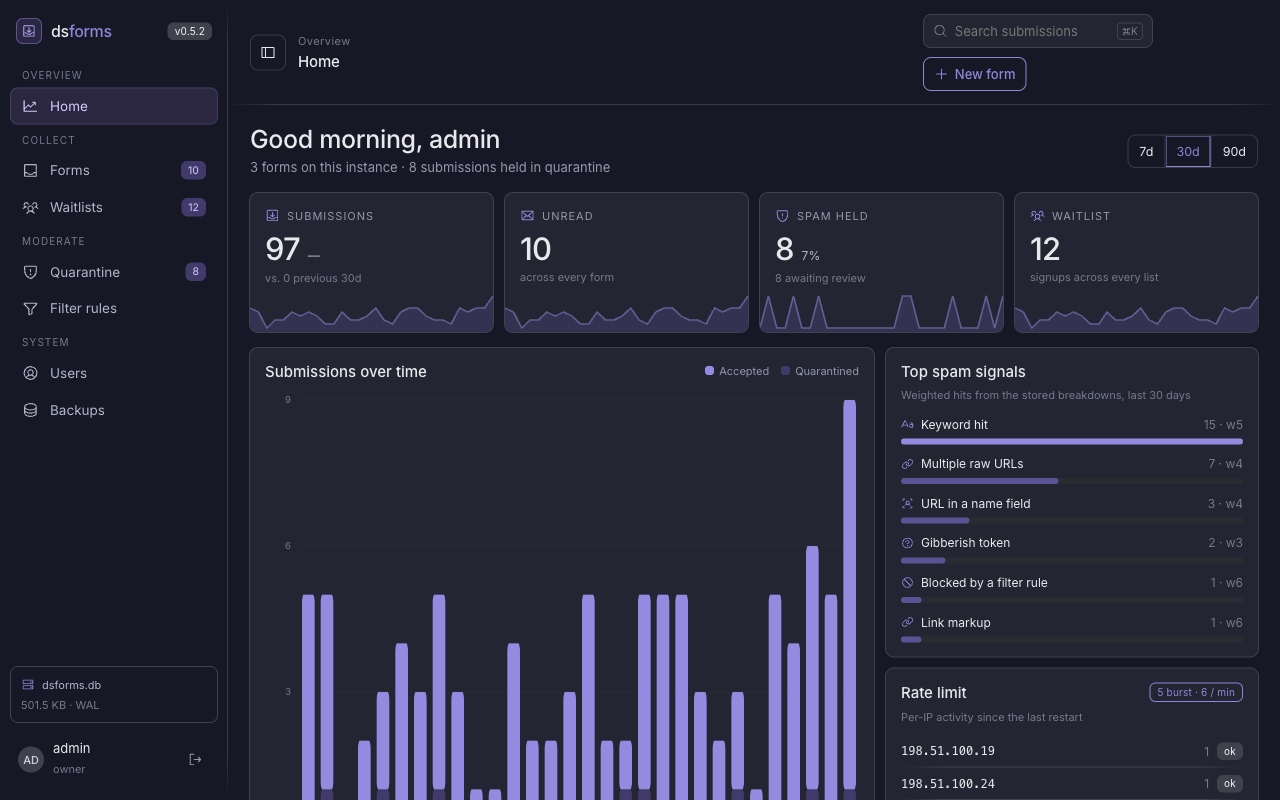
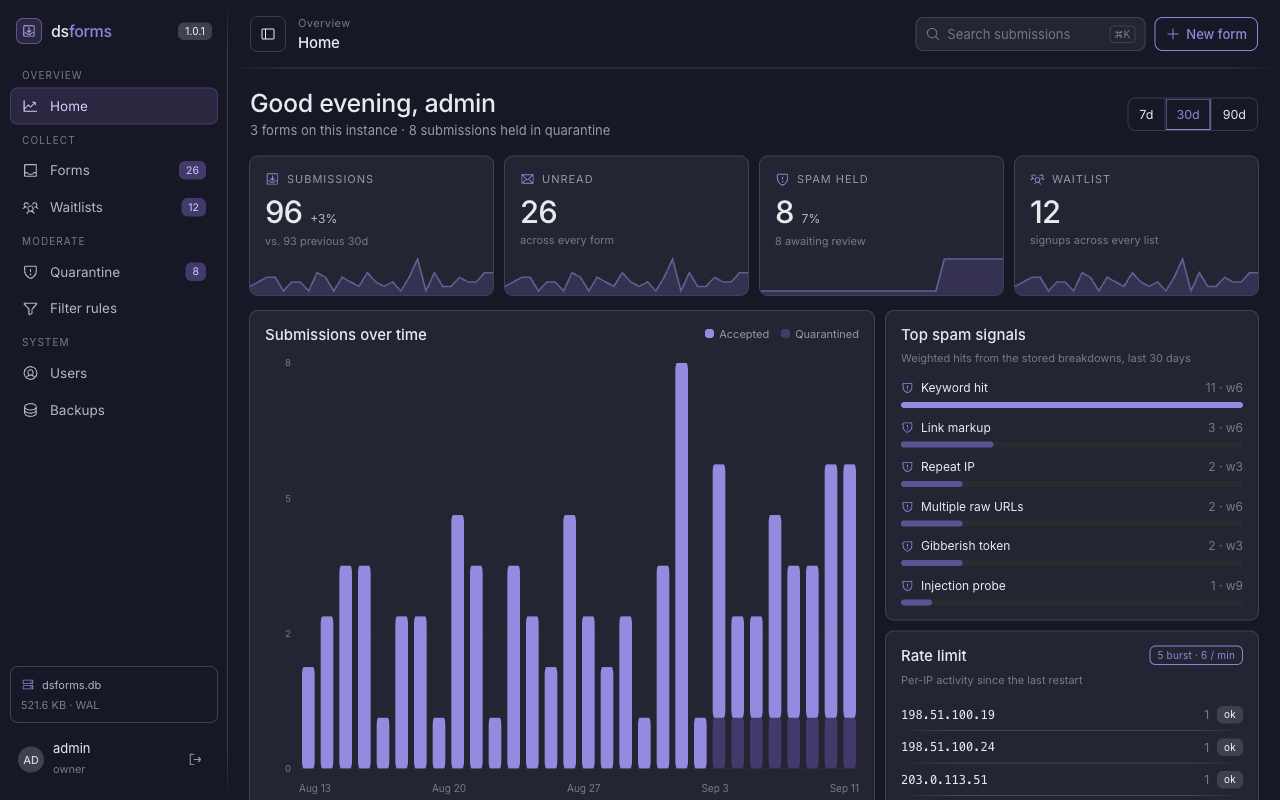
docs: back to the landing design that was handed over
The page had drifted to seven screenshots. The design in
reference/design_handoff_dsforms_admin has none — every UI illustration
in it is hand-built markup. Three of those PNGs were figures scattered
through the copy, one had replaced a mock outright, and four more sat in
a gallery below the Admin section.

Now: one screenshot, the overview, in the first section. The spam
section gets its panel mock back — the same design, translated to this
page's tokens and icon sprite rather than the export's literal hex and
sc-for placeholders. Everything else is markup again. The five PNGs
nothing references any more are deleted, 536KB of them.

Also removes the "Deploy it now" button beside "Star on GitHub".

The two surviving screenshots are recaptured against 1.0.1, because both
still showed the header bug that release fixed — the overview shot was
about to advertise it from the top of the page. Demo data is neutral and
invented: example.com addresses, documentation-range IPs, and a previous
month comparable to the current one so the delta reads +3% rather than
+2966%. The seed script is not in the repo; it builds nothing that ships.

diff --git a/docs/index.html b/docs/index.html
@@ -232,6 +232,12 @@ footer{padding:34px 0 44px;background-image:linear-gradient(to right,transparent
 <span class="t">&lt;/form&gt;</span></pre>
     </div>
   </div>
+  <figure class="wrap" style="position:relative;margin:46px auto 0;padding-inline:28px">
+    <img src="screenshots/dashboard.png" width="1280" height="800" decoding="async"
+         alt="The dsforms overview: submissions over time, spam held, per-form breakdown and rate-limit activity."
+         style="width:100%;height:auto;display:block;border-radius:12px;border:1px solid rgba(255,255,255,.08);box-shadow:var(--shadow-lg)">
+  </figure>
+
 </section>
 
 <!-- How it works -->
@@ -275,13 +281,6 @@ footer{padding:34px 0 44px;background-image:linear-gradient(to right,transparent
         </p>
       </div>
     </div>
-  
-    <figure style="margin:28px 0 0">
-      <img src="screenshots/form-edit.png" width="1280" height="800" loading="lazy" decoding="async"
-           alt="Form settings in the admin, including the paste-ready HTML snippet for the endpoint."
-           style="width:100%;height:auto;display:block;border-radius:10px;border:1px solid rgba(255,255,255,.08)">
-    </figure>
-  
   </div>
 </section>
 
@@ -289,14 +288,14 @@ footer{padding:34px 0 44px;background-image:linear-gradient(to right,transparent
 <section id="spam">
   <div class="wrap">
     <div class="kick"><span></span><span>Spam filter</span></div>
-    <div class="row" style="margin-top:24px;align-items:center">
-      <div style="flex:1 1 340px;min-width:0;display:flex;flex-direction:column;gap:14px">
-        <h2 style="margin:0">It holds spam. It does not silently eat mail.</h2>
-        <p class="lede" style="margin:0">A weighted filter with no configuration to get wrong.
-           Anything it holds stays reviewable for thirty days, with the exact reason
-           attached — because the expensive failure is not spam getting through, it is a
-           real customer disappearing.</p>
+    <h2>It holds spam. It does not silently eat mail.</h2>
+    <p class="lede">A weighted filter with no configuration to get wrong. Anything it
+       holds stays reviewable for thirty days, with the exact reason attached — because
+       the expensive failure is not spam getting through, it is a real customer
+       disappearing.</p>
 
+    <div class="row" style="margin-top:32px;align-items:flex-start">
+      <div style="flex:1 1 340px;min-width:0;display:flex;flex-direction:column;gap:14px">
         <div style="display:flex;gap:10px">
           <svg class="i" style="font-size:16px;color:var(--accent);margin-top:3px"><use href="#ph-check"/></svg>
           <p style="font-size:14.5px">Link markup, injection probes, keyword pile-ups,
@@ -320,15 +319,52 @@ footer{padding:34px 0 44px;background-image:linear-gradient(to right,transparent
         </div>
       </div>
 
-      <!-- The real panel, not a drawing of one. This was hand-built markup with
-           invented numbers until there was a screenshot of the actual screen —
-           which is a strange thing for a page arguing that the breakdown is the
-           feature. -->
-      <figure style="flex:1 1 300px;max-width:340px;min-width:0;margin:0">
-        <img src="screenshots/quarantine-panel.png" width="415" height="632" loading="lazy" decoding="async"
-             alt="The panel behind a held submission: score 14 against a threshold of 6, with two keyword hits and a multiple-raw-URLs signal, each naming the field and the text that matched."
-             style="width:100%;height:auto;display:block;border-radius:10px;border:1px solid rgba(255,255,255,.08)">
-      </figure>
+      <!-- The reviewer's actual panel, not a feature bullet about it. -->
+      <div class="card" style="flex:1 1 340px;max-width:460px;min-width:0">
+        <div style="display:flex;align-items:center;gap:8px;flex-wrap:wrap">
+          <span style="font-size:10px;letter-spacing:.1em;text-transform:uppercase;color:var(--accent);margin-right:auto">why it was held</span>
+          <span class="tag" style="border:1px solid var(--accent);color:var(--accent);background:transparent">score 11 / 6</span>
+        </div>
+        <div style="font-size:15px;font-weight:500;margin-top:6px">Marketing Bot</div>
+        <div class="dim mono" style="font-size:12px;margin-top:2px">45.155.204.7 · Contact · 2d</div>
+
+        <div style="margin-top:16px">
+          <div class="meter"><i style="width:92%"></i></div>
+          <div style="display:flex;justify-content:space-between;font-size:10px;color:var(--n-600);margin-top:4px">
+            <span>0</span><span>threshold 6</span><span>12</span>
+          </div>
+        </div>
+
+        <div style="display:flex;flex-direction:column;gap:9px;margin-top:16px">
+          <div class="rulebox">
+            <div style="display:flex;align-items:center;gap:8px">
+              <svg class="i" style="font-size:14px;color:var(--accent)"><use href="#ph-link"/></svg>
+              <span style="font-size:12px;font-weight:500">Link markup</span>
+              <span class="tag" style="margin-left:auto;border:1px solid var(--accent);color:var(--accent);background:transparent;font-size:10px">+6</span>
+            </div>
+            <div style="font-size:11px;color:var(--n-600);margin-top:5px">field <code class="mono">message</code> · matched</div>
+            <div class="chip" style="margin-top:5px">[url=</div>
+          </div>
+          <div class="rulebox">
+            <div style="display:flex;align-items:center;gap:8px">
+              <svg class="i" style="font-size:14px;color:var(--accent)"><use href="#ph-text-aa"/></svg>
+              <span style="font-size:12px;font-weight:500">Keyword hit</span>
+              <span class="tag" style="margin-left:auto;border:1px solid var(--accent);color:var(--accent);background:transparent;font-size:10px">+5</span>
+            </div>
+            <div style="font-size:11px;color:var(--n-600);margin-top:5px">field <code class="mono">message</code> · matched</div>
+            <div class="chip" style="margin-top:5px">backlinks</div>
+          </div>
+        </div>
+
+        <div style="display:grid;grid-template-columns:1fr 1fr;gap:8px;margin-top:16px">
+          <span class="btn btn-primary" style="width:100%">
+            <svg class="i" style="font-size:15px"><use href="#ph-arrow-u-up-left"/></svg>Not spam
+          </span>
+          <span class="btn btn-secondary" style="width:100%">
+            <svg class="i" style="font-size:15px"><use href="#ph-prohibit"/></svg>Block this IP
+          </span>
+        </div>
+      </div>
     </div>
   </div>
 </section>
@@ -424,13 +460,6 @@ footer{padding:34px 0 44px;background-image:linear-gradient(to right,transparent
         </div>
       </div>
     </div>
-  
-    <figure style="margin:28px 0 0">
-      <img src="screenshots/waitlist.png" width="1280" height="800" loading="lazy" decoding="async"
-           alt="A waitlist in the admin: every signup in order, each with its position."
-           style="width:100%;height:auto;display:block;border-radius:10px;border:1px solid rgba(255,255,255,.08)">
-    </figure>
-  
   </div>
 </section>
 
@@ -471,38 +500,6 @@ footer{padding:34px 0 44px;background-image:linear-gradient(to right,transparent
           Block or allow addresses, domains, IPs and CIDR ranges. Add your own keywords.
         </p>
       </div>
-    </div>
-
-    <!-- The screens themselves. The cards above describe them; a product page
-         that only describes its interface is asking to be taken on trust.
-         width/height are the real pixel dimensions so the browser reserves the
-         space and the page does not jump as they arrive; loading="lazy" keeps
-         them off the critical path, since they all sit well below the fold. -->
-    <div class="shots" style="margin-top:32px;display:grid;gap:16px;grid-template-columns:repeat(auto-fit,minmax(460px,1fr))">
-      <figure style="margin:0;grid-column:1/-1">
-        <img src="screenshots/dashboard.png" width="1280" height="800" loading="lazy" decoding="async"
-             alt="The dsforms overview: submissions over time, spam rate, per-form breakdown and rate-limit activity."
-             style="width:100%;height:auto;display:block;border-radius:10px;border:1px solid rgba(255,255,255,.08)">
-        <figcaption class="muted" style="font-size:12.5px;margin-top:8px">Overview — what arrived, what was held, and how often.</figcaption>
-      </figure>
-      <figure style="margin:0;grid-column:1/-1">
-        <img src="screenshots/quarantine.png" width="1280" height="800" loading="lazy" decoding="async"
-             alt="The quarantine queue: everything the filter held, with scores and signal chips."
-             style="width:100%;height:auto;display:block;border-radius:10px;border:1px solid rgba(255,255,255,.08)">
-        <figcaption class="muted" style="font-size:12.5px;margin-top:8px">Quarantine — everything the filter held, and why.</figcaption>
-      </figure>
-      <figure style="margin:0">
-        <img src="screenshots/reader.png" width="1280" height="800" loading="lazy" decoding="async"
-             alt="A submission open in the reader, over the list it came from."
-             style="width:100%;height:auto;display:block;border-radius:10px;border:1px solid rgba(255,255,255,.08)">
-        <figcaption class="muted" style="font-size:12.5px;margin-top:8px">Reader — opens over the list, arrows step through.</figcaption>
-      </figure>
-      <figure style="margin:0">
-        <img src="screenshots/filter-rules.png" width="1280" height="800" loading="lazy" decoding="async"
-             alt="Filter rules: a blocklist by email, domain, IP or CIDR, custom keywords, and an allowlist."
-             style="width:100%;height:auto;display:block;border-radius:10px;border:1px solid rgba(255,255,255,.08)">
-        <figcaption class="muted" style="font-size:12.5px;margin-top:8px">Filter rules — blocklist, keywords, allowlist.</figcaption>
-      </figure>
     </div>
   </div>
 </section>
@@ -683,9 +680,6 @@ footer{padding:34px 0 44px;background-image:linear-gradient(to right,transparent
         <div style="display:flex;gap:10px;margin-top:24px;flex-wrap:wrap">
           <a class="btn btn-lg" style="border-color:var(--text)" href="https://github.com/barancezayirli/dsforms">
             <svg class="i" style="font-size:16px"><use href="#ph-github-logo"/></svg>Star on GitHub
-          </a>
-          <a class="btn btn-lg" style="border-color:var(--section-ghost);color:var(--a-300)" href="#self-host">
-            Deploy it now
           </a>
         </div>
       </div>
